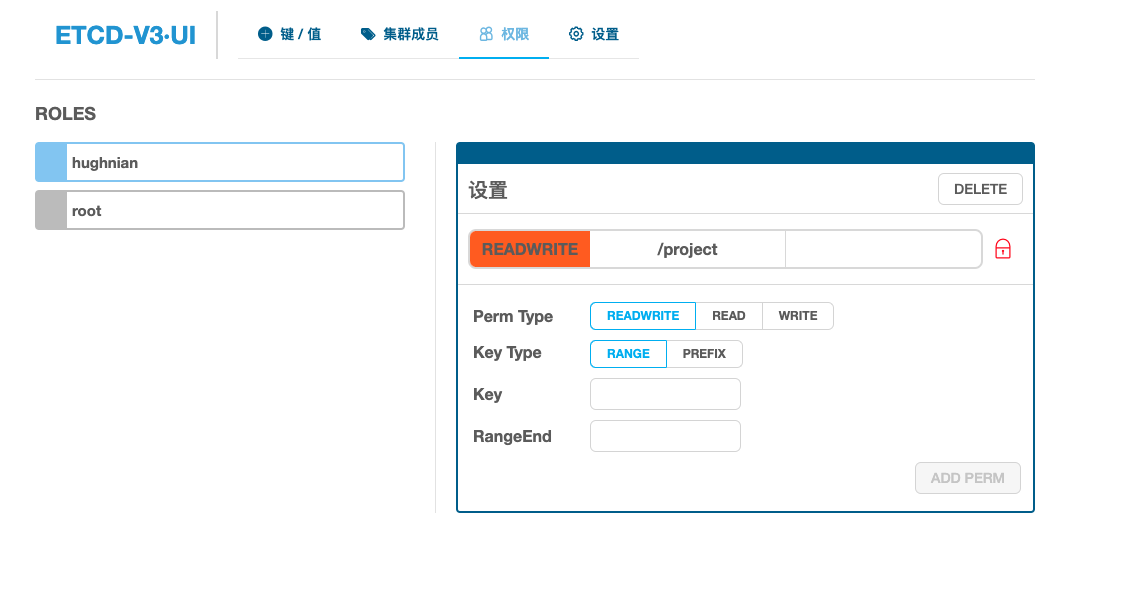
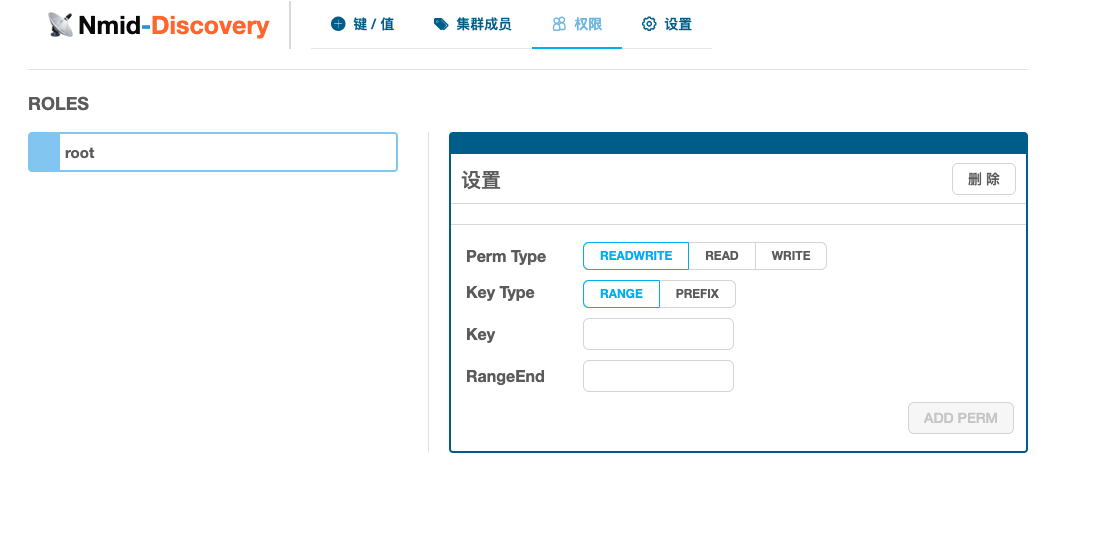
modify name

diff --git a/static/src/components/App.jsx b/static/src/components/App.jsx
@@ -46,7 +46,7 @@ const App = React.createClass({
                                 borderStyle: "solid", borderWidth: "0px 2px 0px 0px", borderColor: "#ddd",
                                 cursor: "pointer", color: "#419eda"
                             }}>
-                            ETCD-V3·UI
+                            📡  <span style={{color:"#040404", marginLeft: 5}}>Nmid</span>-<span style={{color:"#f67125"}}>Discovery</span>
                         </Box>
                         <Menu onClick={this.handleClick}
                             selectedKeys={[this.state.menu]}

diff --git a/static/src/components/KeyValue.jsx b/static/src/components/KeyValue.jsx
@@ -131,7 +131,7 @@ const KeyValue = React.createClass({
                     </Breadcrumb>
                 </Box>
                 <Box>
-                    <Box vertical style={{ width: 180, paddingRight: 20 }}>
+                    <Box vertical style={{ width: 260, paddingRight: 20 }}>
                         <Box vertical >
                             {
                                 this.state.list.map(

diff --git a/README.md b/README.md
@@ -1,4 +1,4 @@
-etcdUI base on [e3w](https://github.com/soyking/e3w)
+Nmid-Discovery UI base on [e3w](https://github.com/soyking/e3w)
 ===
 
 ## Quick Start
@@ -13,8 +13,6 @@ docker-compose up
 KEY/VALUE
 
 ![](./images/kv.png)
-
-![](./images/key-val.png)
 
 MEMBERS
 
